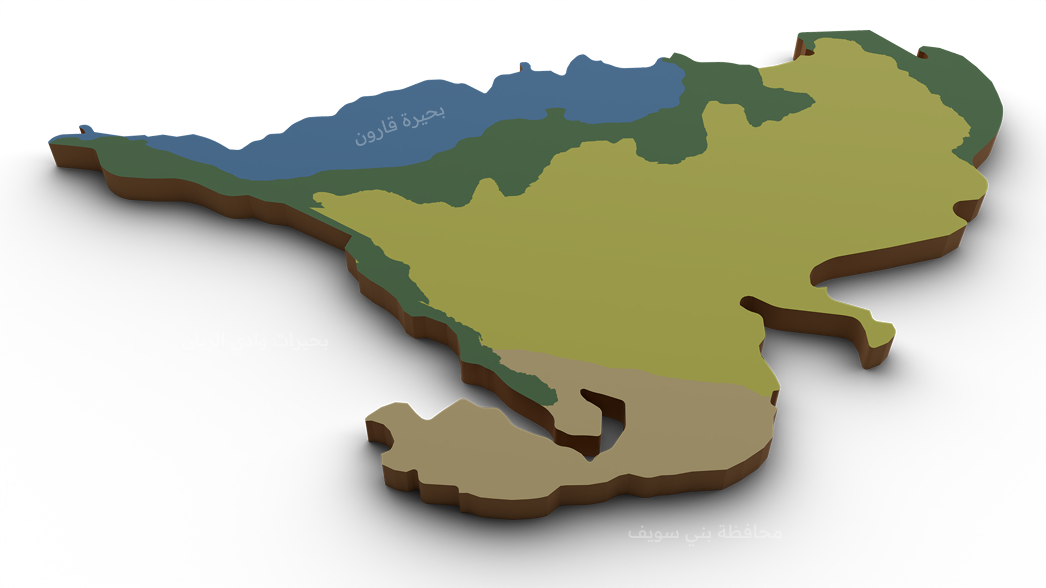
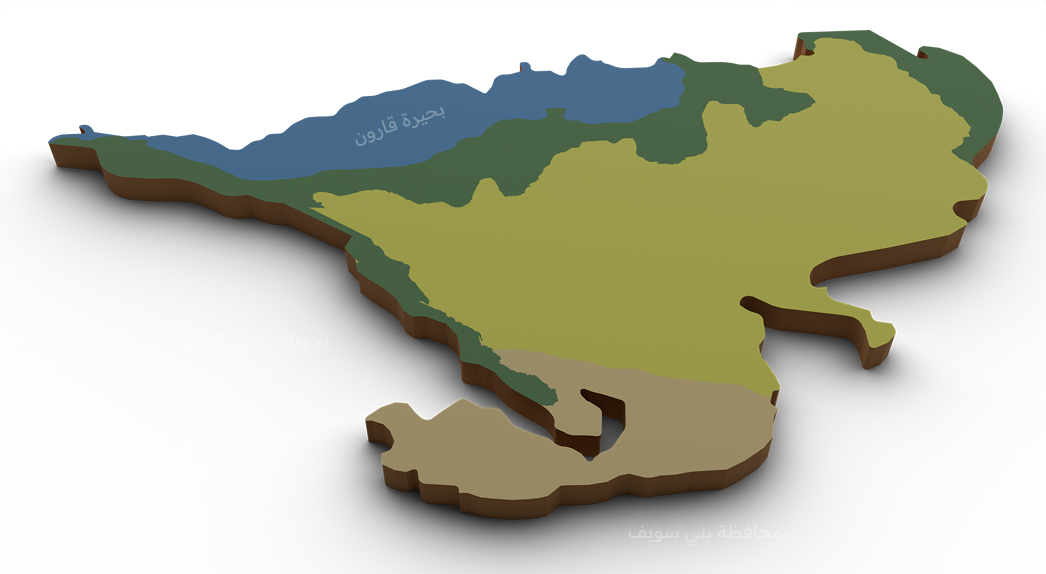
feat(women): chart + animation

diff --git a/src/html/components/women/banner-7/parts/ar/content.part.html b/src/html/components/women/banner-7/parts/ar/content.part.html
@@ -5,10 +5,10 @@
         <img src="webp/women/chart-2.webp" alt="">
         <img src="webp/women/chart-2-legend.webp" alt="" class="legend">
         <div class="arrows-container">
-            <img src="webp/women/arrows/lakes-2.webp" class="lakes-2 animate fade-in" data-delay="200">
-            <img src="webp/women/arrows/moderate.webp" class="moderate animate fade-in" data-delay="400">
-            <img src="webp/women/arrows/unsuitable.webp" class="unsuitable animate fade-in" data-delay="600">
-            <img src="webp/women/arrows/low.webp" class="low animate fade-in" data-delay="800">
+            <img src="webp/women/arrows/lakes-2.webp" class="lakes-2 animate fade-in" data-delay="200" data-force-delay="1">
+            <img src="webp/women/arrows/moderate.webp" class="moderate animate fade-in" data-delay="400" data-force-delay="1">
+            <img src="webp/women/arrows/unsuitable.webp" class="unsuitable animate fade-in" data-delay="600" data-force-delay="1">
+            <img src="webp/women/arrows/low.webp" class="low animate fade-in" data-delay="800" data-force-delay="1">
         </div>
         <div class="map-source">المصدر: دراسة "تغيرات الخريطة الزراعية في محافظة الفيوم في الفترة من 1980 إلى 2020"</div>
     </div>

diff --git a/src/html/components/women/banner-6/parts/ar/content.part.html b/src/html/components/women/banner-6/parts/ar/content.part.html
@@ -5,10 +5,10 @@
         <img src="webp/women/chart-1.webp" alt="">
         <img src="webp/women/chart-1-legend.webp" alt="" class="legend">
         <div class="arrows-container">
-            <img src="webp/women/arrows/lakes.webp" class="lakes animate fade-in" data-delay="200">
-            <img src="webp/women/arrows/high-sal.webp" class="high-sal animate fade-in" data-delay="400">
-            <img src="webp/women/arrows/mid-sal.webp" class="mid-sal animate fade-in" data-delay="600">
-            <img src="webp/women/arrows/low-sal.webp" class="low-sal animate fade-in" data-delay="800">
+            <img src="webp/women/arrows/lakes.webp" class="lakes animate fade-in" data-delay="200" data-force-delay="1">
+            <img src="webp/women/arrows/high-sal.webp" class="high-sal animate fade-in" data-delay="400" data-force-delay="1">
+            <img src="webp/women/arrows/mid-sal.webp" class="mid-sal animate fade-in" data-delay="600" data-force-delay="1">
+            <img src="webp/women/arrows/low-sal.webp" class="low-sal animate fade-in" data-delay="800" data-force-delay="1">
         </div>
         <div class="map-source">المصدر: دراسة "تغيرات الخريطة الزراعية في محافظة الفيوم في الفترة من 1980 إلى 2020"</div>
     </div>

diff --git a/src/html/components/women/banner-7/parts/en/content.part.html b/src/html/components/women/banner-7/parts/en/content.part.html
@@ -5,10 +5,10 @@
         <img src="webp/women/en/chart-2.webp" alt="" class="map">
         <img src="webp/women/en/chart-2-legend.webp" alt="" class="legend">
         <div class="arrows-container">
-            <img src="webp/women/en/arrows/lakes-2.webp" class="lakes-2 animate fade-in" data-delay="200">
-            <img src="webp/women/en/arrows/moderate.webp" class="moderate animate fade-in" data-delay="400">
-            <img src="webp/women/en/arrows/unsuitable.webp" class="unsuitable animate fade-in" data-delay="600">
-            <img src="webp/women/en/arrows/low.webp" class="low animate fade-in" data-delay="800">
+            <img src="webp/women/en/arrows/lakes-2.webp" class="lakes-2 animate fade-in" data-delay="200" data-force-delay="1">
+            <img src="webp/women/en/arrows/moderate.webp" class="moderate animate fade-in" data-delay="400" data-force-delay="1">
+            <img src="webp/women/en/arrows/unsuitable.webp" class="unsuitable animate fade-in" data-delay="600" data-force-delay="1">
+            <img src="webp/women/en/arrows/low.webp" class="low animate fade-in" data-delay="800" data-force-delay="1">
         </div>
         <div class="map-source">Source: Study on the Changes in the Agricultural Map of Fayoum Governorate from 1980 to 2020</div>
 

diff --git a/src/html/components/women/banner-6/parts/en/content.part.html b/src/html/components/women/banner-6/parts/en/content.part.html
@@ -5,10 +5,10 @@
         <img src="webp/women/en/chart-1.webp" alt="" class="map">
         <img src="webp/women/en/chart-1-legend.webp" alt="" class="legend">
         <div class="arrows-container">
-            <img src="webp/women/en/arrows/lakes.webp" class="lakes animate fade-in" data-delay="200">
-            <img src="webp/women/en/arrows/high-sal.webp" class="high-sal animate fade-in" data-delay="400">
-            <img src="webp/women/en/arrows/mid-sal.webp" class="mid-sal animate fade-in" data-delay="600">
-            <img src="webp/women/en/arrows/low-sal.webp" class="low-sal animate fade-in" data-delay="800">
+            <img src="webp/women/en/arrows/lakes.webp" class="lakes animate fade-in" data-delay="200" data-force-delay="1">
+            <img src="webp/women/en/arrows/high-sal.webp" class="high-sal animate fade-in" data-delay="400" data-force-delay="1">
+            <img src="webp/women/en/arrows/mid-sal.webp" class="mid-sal animate fade-in" data-delay="600" data-force-delay="1">
+            <img src="webp/women/en/arrows/low-sal.webp" class="low-sal animate fade-in" data-delay="800" data-force-delay="1">
         </div>
         <div class="map-source">Source: Study on the Changes in the Agricultural Map of Fayoum Governorate from 1980 to 2020</div>
 

diff --git a/src/scss/components/women/_banner-7.scss b/src/scss/components/women/_banner-7.scss
@@ -1,20 +1,19 @@
 section.banner-7 {
   .lakes-2 {
-    top: -8%;
-    @include h.appDirValue(right, 64%, 64%);
+    top: 6%;
+    @include h.appDirValue(right, 70%, 70%);
   }
   .unsuitable {
-    top: 7%;
-    @include h.appDirValue(right, -36%, -36%);
-    transform: scale(0.37) !important;
+    top: 20%;
+    @include h.appDirValue(right, -1%, -1%);
   }
   .low {
     top: 42%;
-    @include h.appDirValue(right, -31%, -31%);
+    @include h.appDirValue(right, -1%, -1%);
   }
   .moderate {
-    top: -26%;
-    @include h.appDirValue(right, 20%, 20%);
+    top: -1%;
+    @include h.appDirValue(right, 36%, 36%);
   }
 
   @media screen and (min-width: 992px) {

diff --git a/src/scss/components/women/_banner-6.scss b/src/scss/components/women/_banner-6.scss
@@ -1,22 +1,22 @@
 section.banner-6 {
   .lakes {
-    top: -14%;
-    @include h.appDirValue(right, 66%, 66%);
+    top: 1%;
+    @include h.appDirValue(right, 71%, 71%);
   }
 
   .high-sal {
-    top: -25%;
-    @include h.appDirValue(right, 14%, 14%);
+    top: -7%;
+    @include h.appDirValue(right, 25%, 25%);
   }
 
   .mid-sal {
-    top: 13%;
-    @include h.appDirValue(right, -28%, -28%);
+    top: 22%;
+    @include h.appDirValue(right, -5%, -5%);
   }
 
   .low-sal {
-    top: 47%;
-    @include h.appDirValue(right, -31%, -31%);
+    top: 46%;
+    @include h.appDirValue(right, 5%, 5%);
   }
 
   @media screen and (min-width: 992px) {

diff --git a/src/scss/components/women/_banner-with-map.scss b/src/scss/components/women/_banner-with-map.scss
@@ -35,7 +35,9 @@ section.banner-with-map {
     img {
       position: absolute;
       pointer-events: none;
-      transform: scale(0.5);
+      
+      max-width: h.rem(120);
+      max-height: h.rem(60);
     }
   }
 
@@ -60,6 +62,9 @@ section.banner-with-map {
     .arrows-container {
       img {
         transform: none;
+
+        max-width: none;
+        max-height: none;
       }
     }
   }
